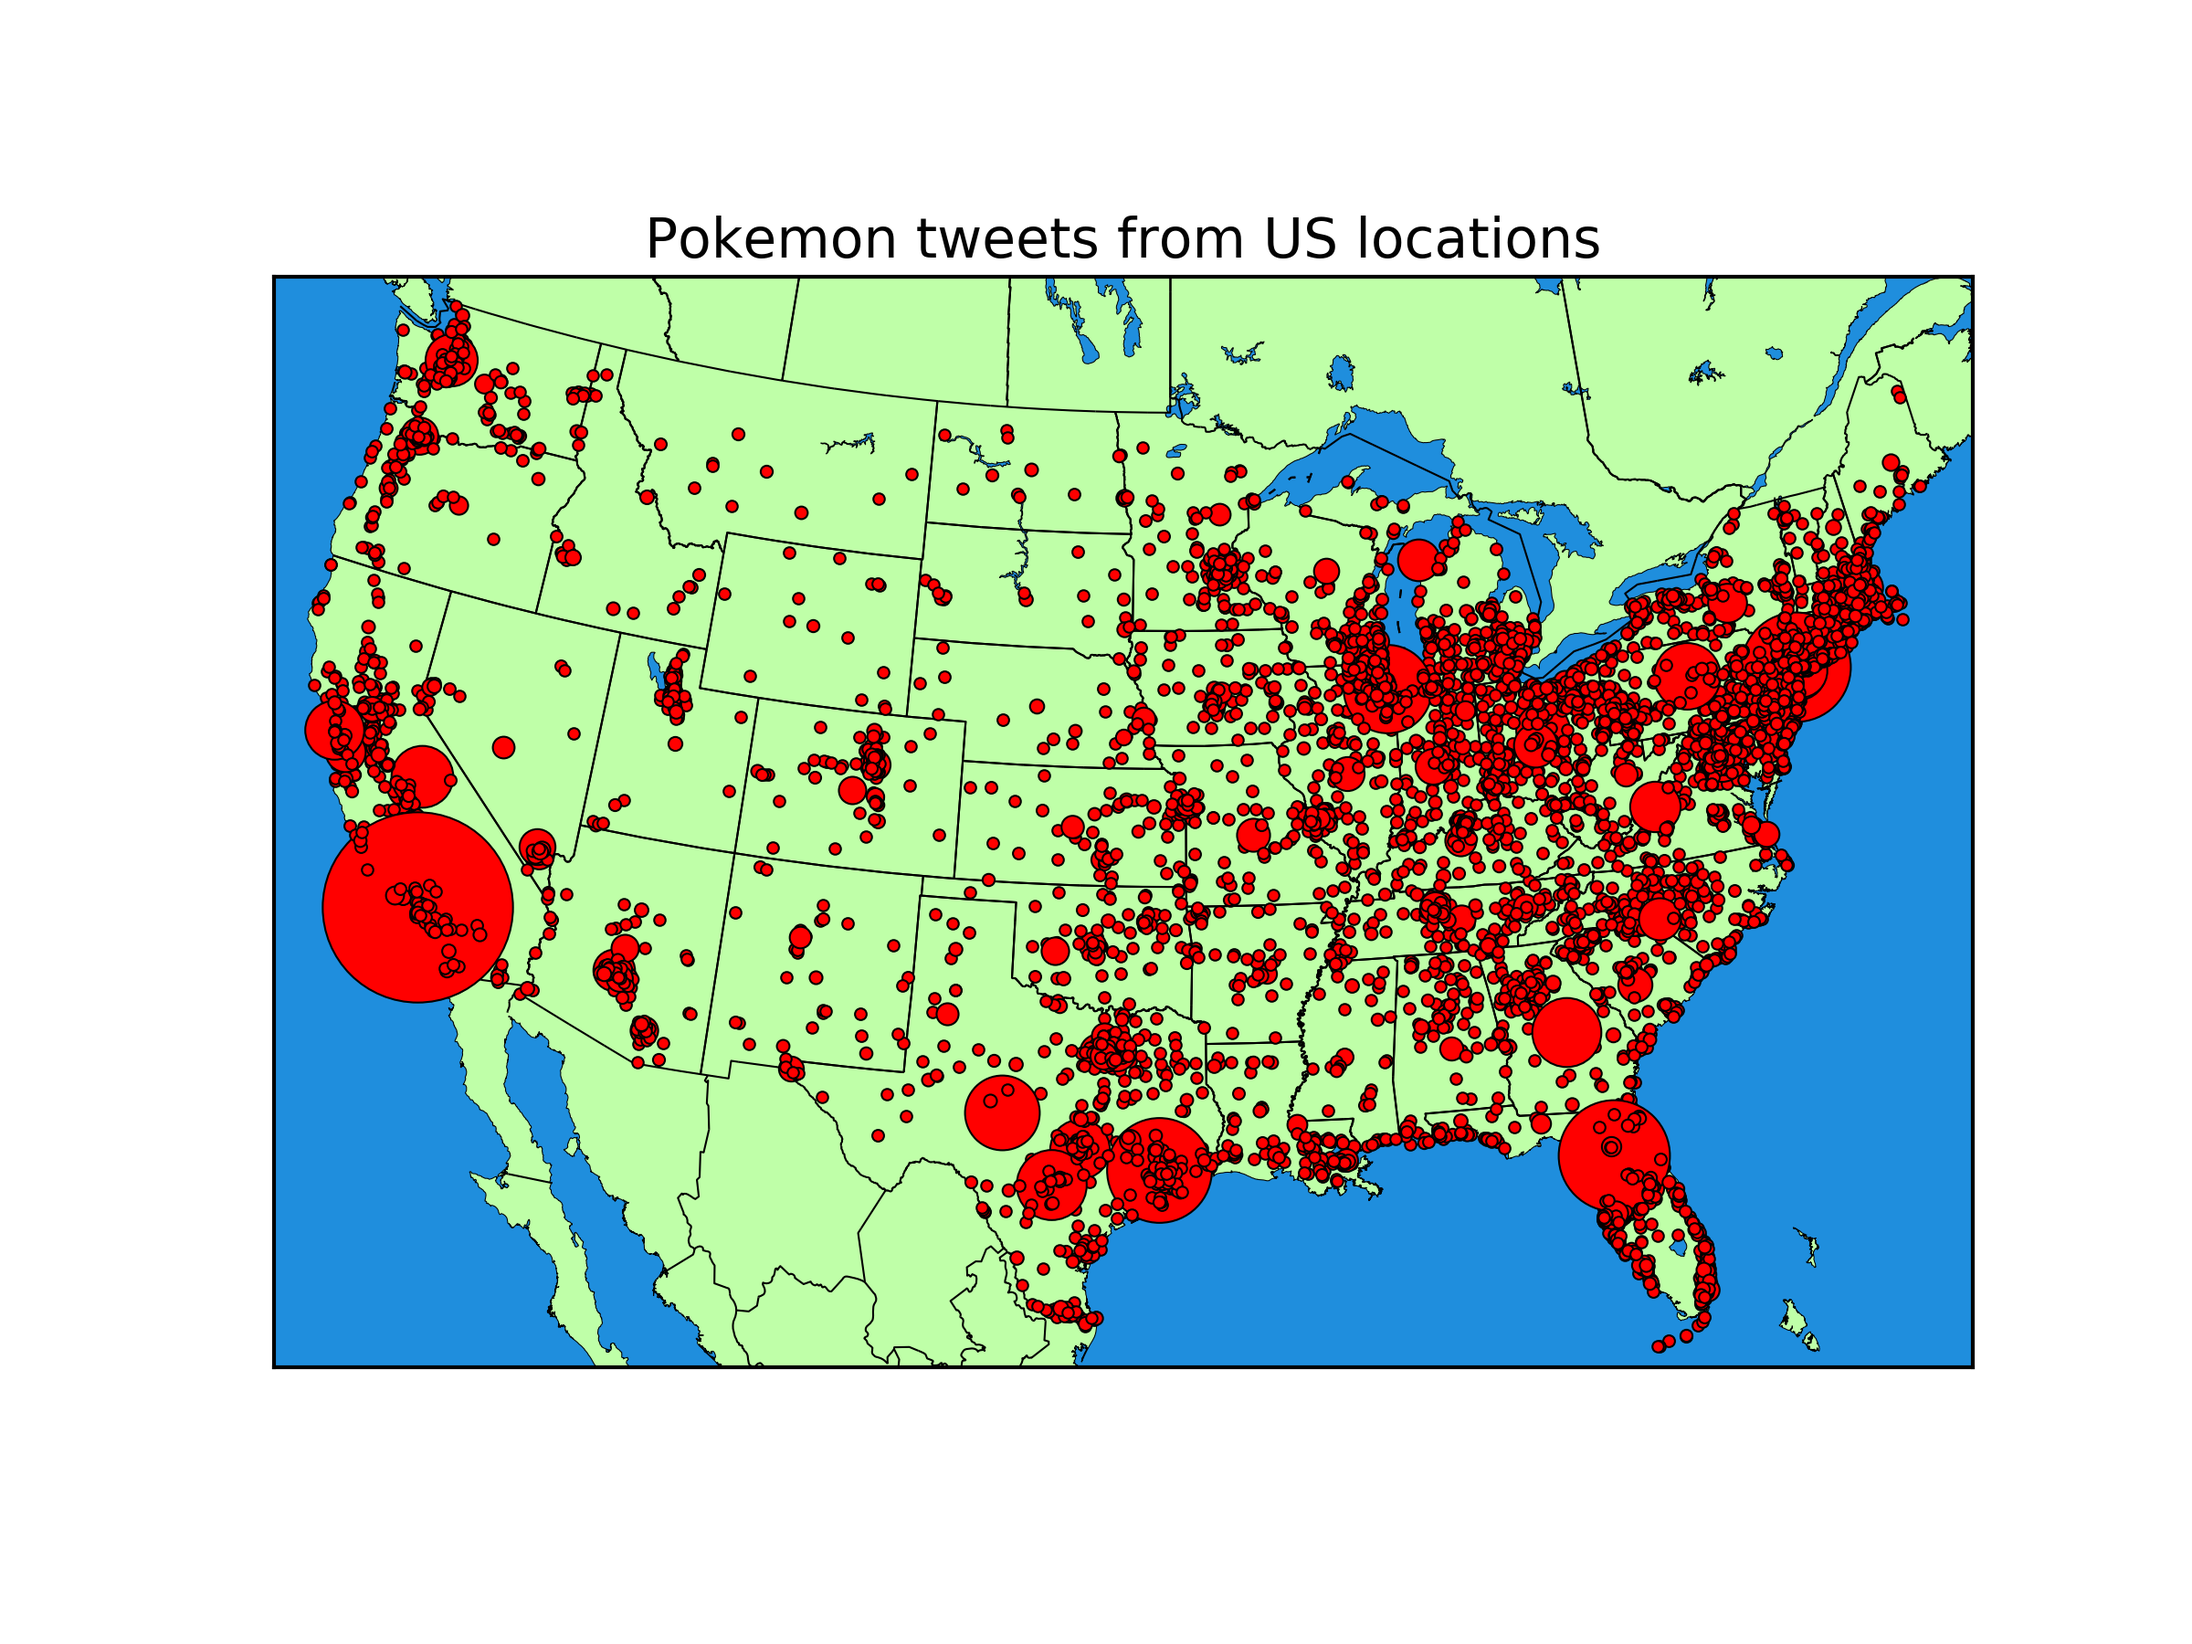
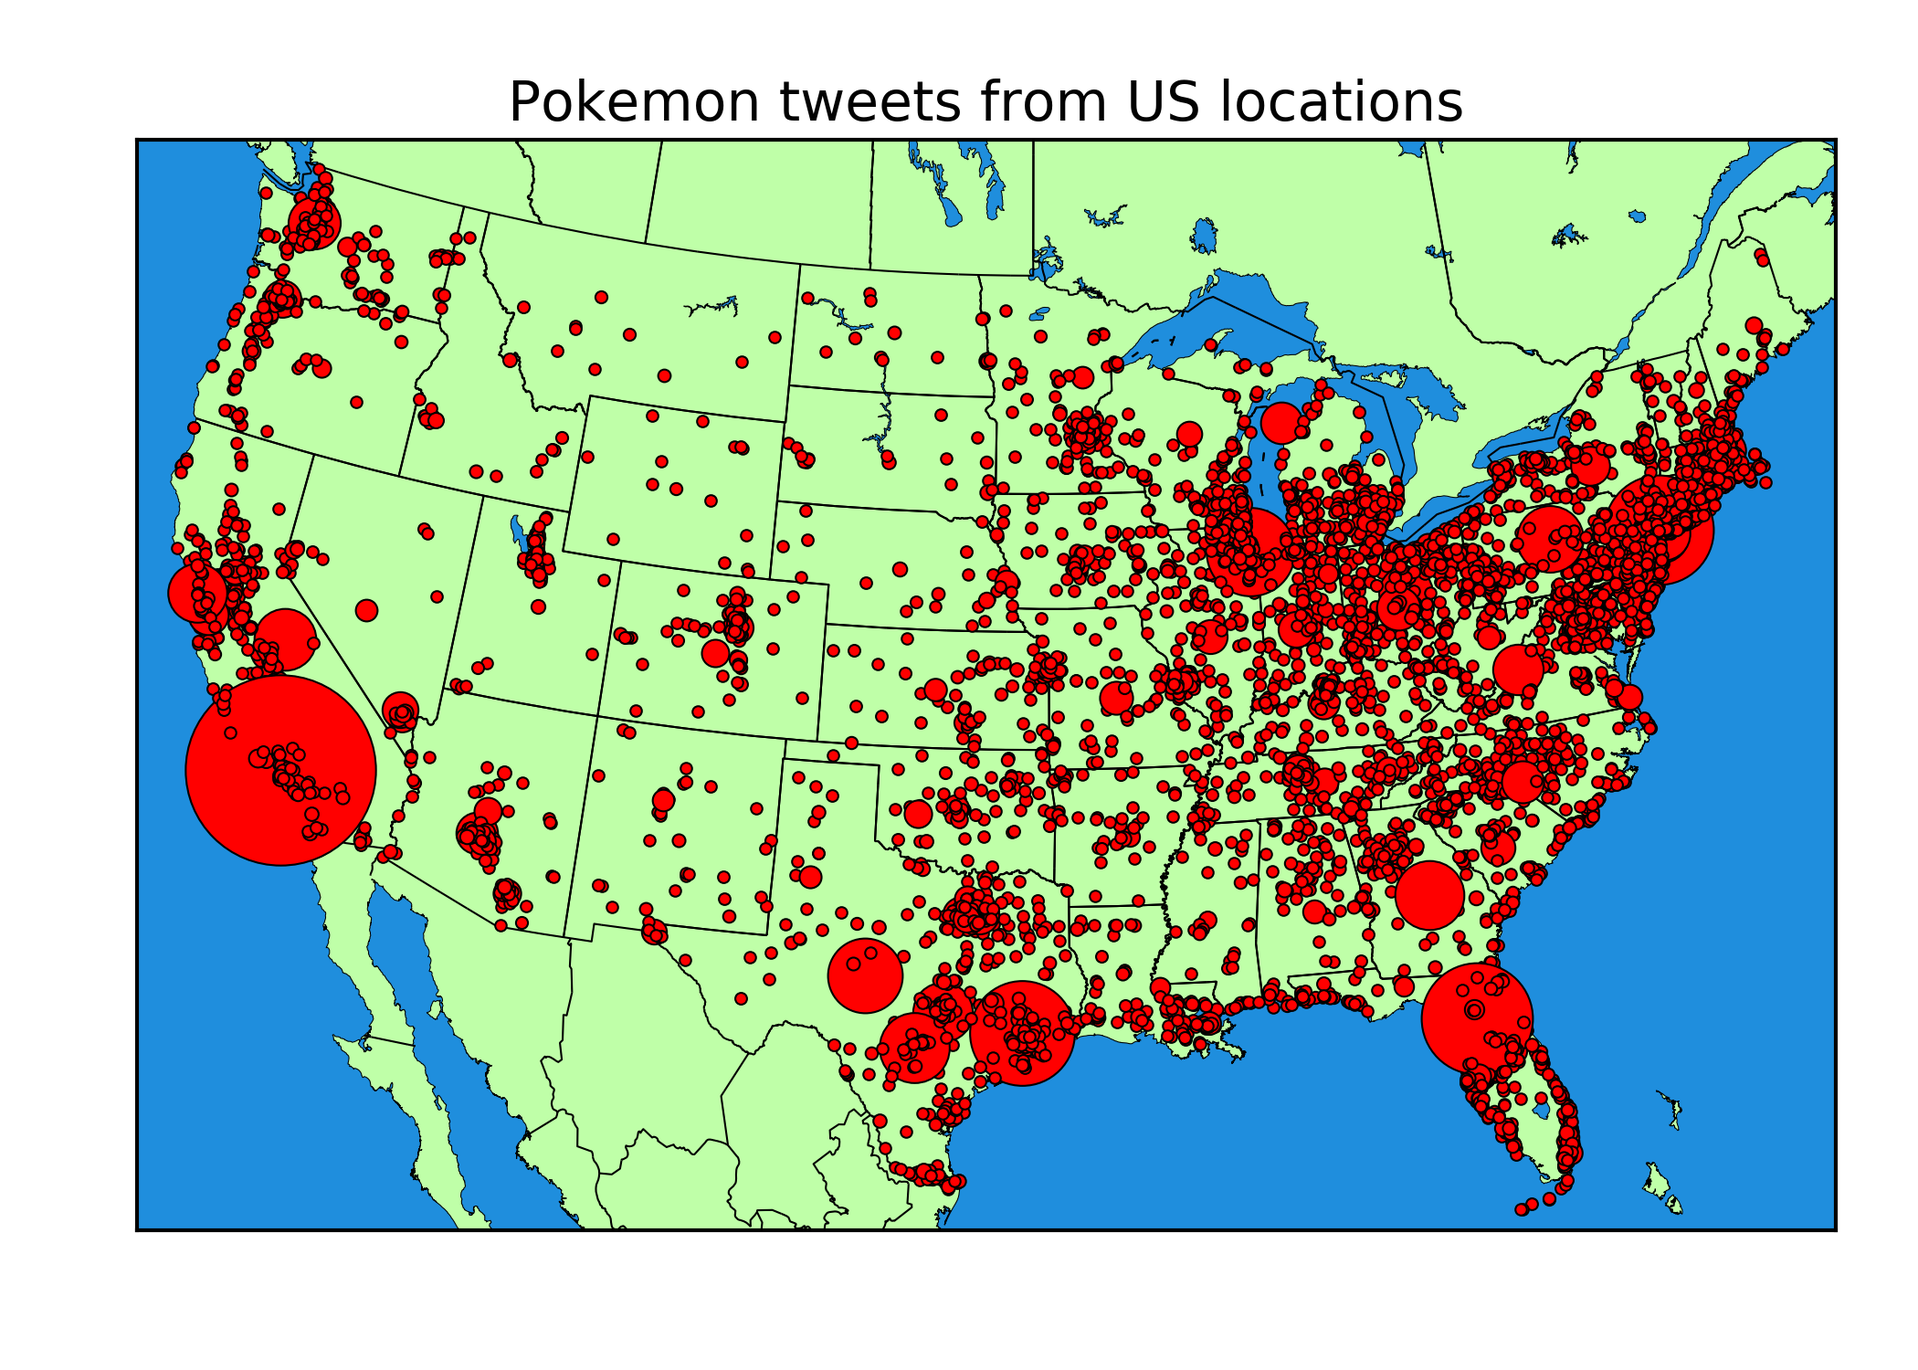
Modified figure borders for maps

diff --git a/analysis/plot_pokemon_map.py b/analysis/plot_pokemon_map.py
@@ -61,7 +61,7 @@ n_min = min(city_sums)
 n_max = max(city_sums)
 
 for lon, lat, n_sum, pokemon in zip(city_longs, city_lats, city_sums, city_pokemons):
-	if n_sum > 50 and pokemon != None:
+	if n_sum > 25 and pokemon != None:
 		x, y = my_map(lon, lat)
 		ab = place_poke_img(x, y, pokemon)
 		my_map._check_ax().add_artist(ab)
